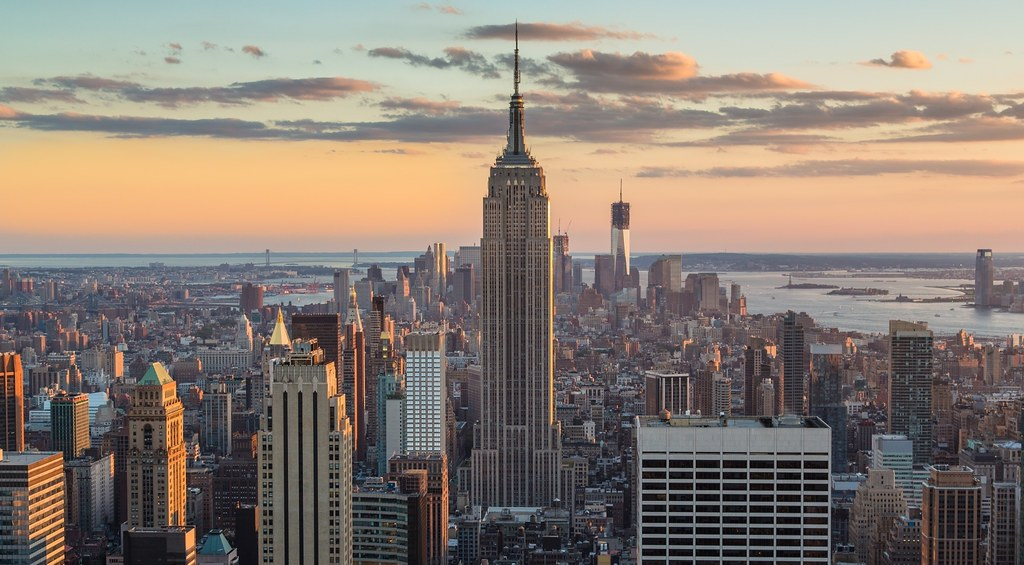
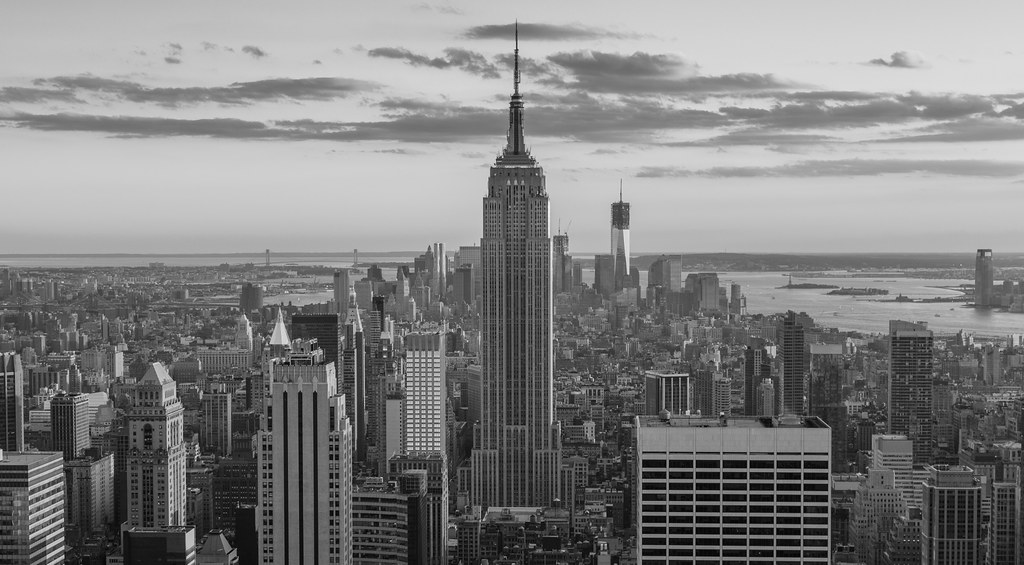
functions working

diff --git a/main.py b/main.py
@@ -3,60 +3,136 @@ import os
 
 
 class ImageEditor:
-    def __init__(self, file_path):
-        self.file_path = file_path
-        self.image = Image.open(self.file_path)
 
-        self.width = self.image.width
-        self.height = self.image.height
-        self.mwidth = self.width // 1000
-        self.mheight = self.height // 1000
-        if self.mwidth > self.mheight:
-          self.scale = self.mwidth
-        else:
-          self.scale = self.mheight
-        if self.scale != 0:
-          self.image = self.image.resize( (self.width // self.scale, self.height // self.scale) )
-          
-  img = img.resize( (width // scale, height // scale) )
+  def __init__(self, file_path):
+    self.file_path = file_path
+    self.image = Image.open(self.file_path)
 
-    #make a function that sharpens the image
-    def sharpening(self):
-        self.image = self.image.filter(ImageFilter.SHARPEN)
-      
-    #make a function that flips the image
-    def flip(self):
-        self.image = self.image.transpose(Image.FLIP_LEFT_RIGHT)
+    #resizes the images
+    self.width = self.image.width
+    self.height = self.image.height
+    self.mwidth = self.width // 1000
+    self.mheight = self.height // 1000
+    if self.mwidth > self.mheight:
+      self.scale = self.mwidth
+    else:
+      self.scale = self.mheight
+    if self.scale != 0:
+      self.image = self.image.resize(
+        (self.width // self.scale, self.height // self.scale))
 
-    #make a function that rotates the image
-    def rotate(self):
-        self.image = self.image.rotate(90, expand=True)  
+  #make a function that sharpens the image
+  def sharpen(self):
+    self.image = self.image.filter(ImageFilter.SHARPEN)
 
-    #make a save function that saves the new image to filteredImages file      
-    def save(self, name):
-        self.image.save("filteredImages/" + name + ".png", "PNG")
-        
+  #make a function that flips the image
+  def flip(self):
+    self.image = self.image.transpose(Image.FLIP_LEFT_RIGHT)
 
-def editSequence(fileName):
-  #create image editor object 
+  #make a function that rotates the image
+  def rotate(self):
+    self.image = self.image.rotate(90, expand=True)
+
+  #make a function that blurs the image
+  def blur(self):
+    self.image = self.image.filter(ImageFilter.BLUR)
+
+  #make a function that makes the image black and white
+  def black_white(self):
+    self.image = self.image.convert("L")
+
+  #make a save function that saves the new image to filteredImages file
+  def save(self, name):
+    self.image.save("filteredImages/" + name + ".png", "PNG")
+
+
+def editSequence(img):
+  
+  # this a list of all the names of the methods in the above class
+  method_list = [
+    method for method in dir(ImageEditor)
+    if method.startswith('__') is False and method != 'save'
+  ]
+
+  #use method list and format it to get user input for what option they want to do
+  stringInput = ""
+  for i in range(len(method_list)):
+    stringInput += (str(i + 1) + ". " + method_list[i] + "\n")
+
+  stringInput += f"{str(len(method_list) + 1)}. Exit"
+
+
+  #main loop
+  while True:
+    os.system('cls' if os.name == 'nt' else 'clear')
+    
+    optionInput = input(stringInput)
+    #make it so that the user can only enter a number
+    while not (optionInput.isdigit()):
+      optionInput = input("Please enter a number: ")
+  
+    #make option input corresponds to the correct method of the above class using if statements
+    if optionInput == 1:
+      img.black_white()
+    elif optionInput == 2:
+      img.blur()
+    elif optionInput == 3:
+      img.flip()
+    elif optionInput == 4:
+      img.rotate()
+    elif optionInput == 5:
+      img.sharpen()
+    elif optionInput == len(method_list) + 1:
+      break
+    else:
+      print("Please enter a number between 1 and " + str(len(method_list) + 1))
+  
+    print(optionInput)
+
+
+def optionSequence(fileName):
+  #create image editor object
   img = ImageEditor(fileName)
+  #make a while loop that lets the user call functions from the class through input to edit the image usin input, also let them stop it and save the image
+  while True:
+    #get the user input
+    user_input = input("What do you want to do?\n1. Edit\n2. Save\n3. Quit\n")
+
+    #if the user input is 1, edit the image
+    if user_input == "1":
+      img = editSequence(img)
+
+    #if the user input is 2, save the image
+    elif user_input == "2":
+      img.save("filteredImages/" + fileName + ".png", "PNG")
+
+    #if the user input is 3, quit the program
+    elif user_input == "3":
+      os.system('cls' if os.name == 'nt' else 'clear')
+      break
+
+    #if the user input is anything else, print an error message
+    else:
+      print("Invalid input, please try again.")
+
+  img.black_white()
 
   img.save("test")
-  
+
 
 if __name__ == '__main__':
 
   correctName = False
-    
+
   while correctName == False:
-    
-  #ask user to input the image file name
-    image_file_name = input('Please input the image file name (include .png/.jpg): ')
-  
+
+    #ask user to input the image file name
+    image_file_name = input(
+      'Please input the image file name (include .png/.jpg): ')
+
     #check if the image file exists in uploadImages folder
     if os.path.isfile("uploadImages/" + image_file_name):
       correctName = True
-      editSequence("uploadImages/" + image_file_name)
-    else: #if the image file doesn't exist in uploadImages folder
+      optionSequence("uploadImages/" + image_file_name)
+    else:  #if the image file doesn't exist in uploadImages folder
       print('The image file doesn\'t exist in uploadImages folder')
-      
